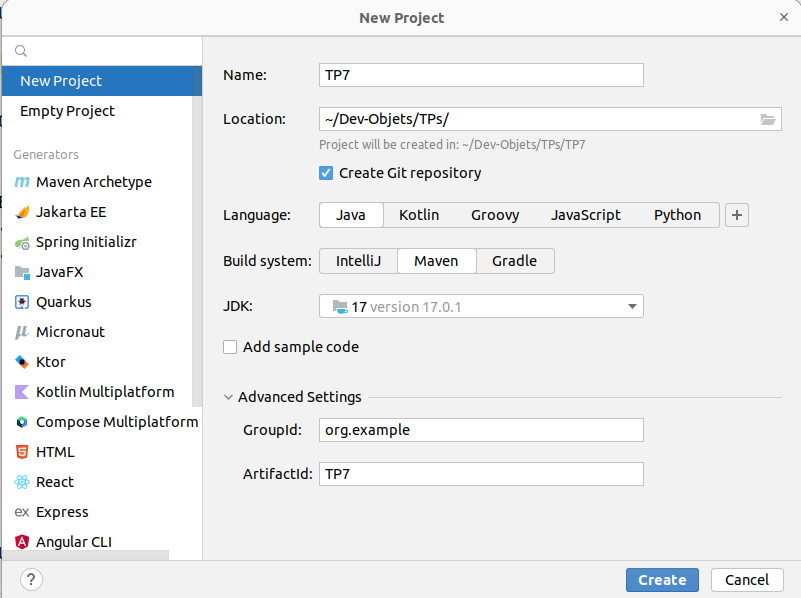
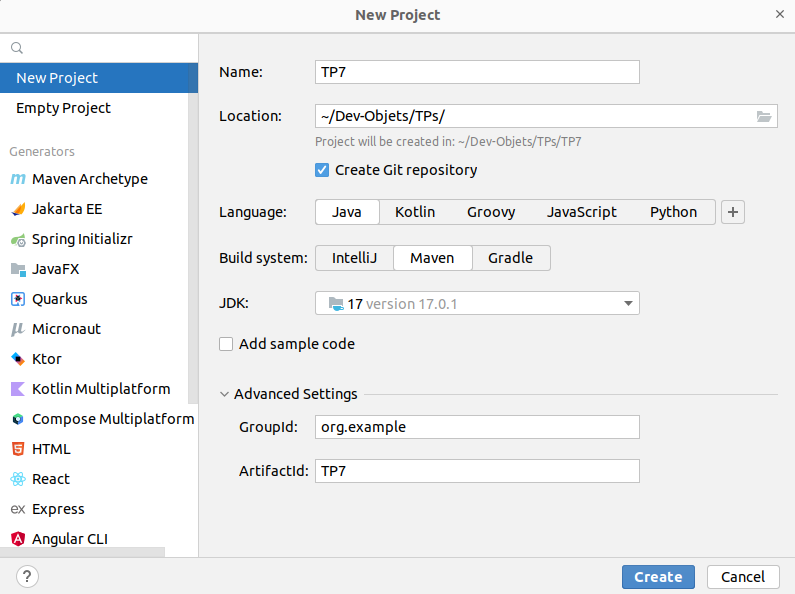
update pour nouvelle version de l'IDE

diff --git a/README.md b/README.md
@@ -107,7 +107,7 @@ libre à vous d'adapter ce tutoriel pour un autre IDE que vous préférez.
 4. Et voilà, vous venez de créer un projet _Java_ en suivant la convention **Maven**. La page que vous allez trouver, va rassembler
    à quelque chose comme ceci :
 
-   ![](ressources/CreationAvecMaven3.png)
+   ![](ressources/CreationAvecMaven2.png)
 
    Notez le fichier XML qui vous sera affiché (`pom.xml`). Ce fichier, appelé
    [_Project Object Model_](https://maven.apache.org/guides/introduction/introduction-to-the-pom.html), contient
@@ -159,9 +159,9 @@ libre à vous d'adapter ce tutoriel pour un autre IDE que vous préférez.
 
     Après avoir effectué les premières modifications du fichier POM de votre projet, il se peut que votre IDE demande quand est-ce que vous souhaitez qu'il prenne en compte les changements de ce fichier. Ainsi, une fenêtre comme celle-ci pourrait apparaître (en bas à droite de votre écran) :
 
-   ![](ressources/CreationMaven5.png)
+    ![](ressources/CreationMaven3.png)
 
-   Si cette fenêtre apparaît, pour faire plus simple, vous pouvez choisir l'option _Enable Auto-Import_ afin que tout changement du fichier POM soit pris en compte immédiatement.
+    Si cette fenêtre apparaît, pour faire plus simple, vous pouvez choisir l'option _Enable Auto-Import_ afin que tout changement du fichier POM soit pris en compte immédiatement.
 
 5. Maintenant, que votre projet est prêt, n'oubliez pas de versionner votre travail avec Git. On vous rappelle rapidement les commandes Git à exécuter dans le terminal (attention, si vous utilisez votre IDE pour faire cela, lisez/vérifiez avant de cliquer...) :
 
